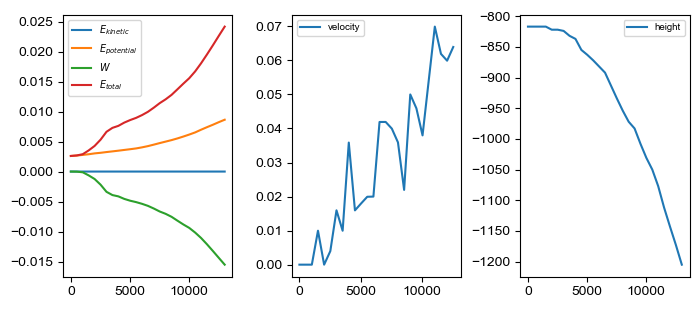
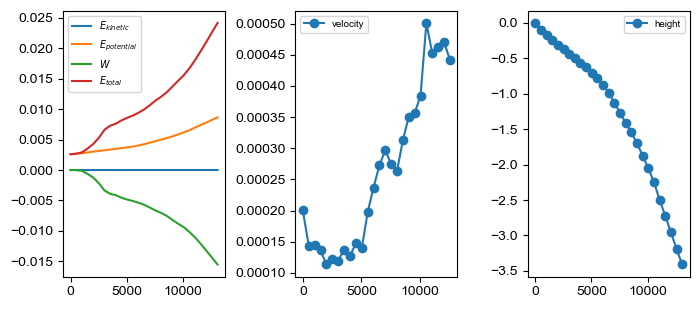
fix: trajectory fig

diff --git a/examples/tube_pulling/trajectory.py b/examples/tube_pulling/trajectory.py
@@ -107,7 +107,7 @@ if __name__ == "__main__":
         pressureEnergy[frame] = system.energy.pressureEnergy
         adsorptionEnergy[frame] = system.energy.adsorptionEnergy
         
-        height[frame] = np.max(np.shape(system.getVertexPositionMatrix()[:,2]))
+        height[frame] = np.max(system.getVertexPositionMatrix()[:,2])
     totalEnergy = potentialEnergy + kineticEnergy - externalWork
 
     """ plotting """
@@ -127,12 +127,10 @@ if __name__ == "__main__":
     # axs[1].plot(time, pressureEnergy, label='$E_p$')
     # axs[1].plot(time, adsorptionEnergy, label='$E_a$')
     # axs[1].plot(time, height, label="$h$")
-    print("time", time[:-1])
-    print("np.diff(time)", np.diff(time))
-    axs[1].plot(time[:-1], np.diff(height)/np.diff(time), label="velocity")
+    axs[1].plot(time[:-1], np.diff(height)/np.diff(time), label="velocity", marker = 'o')
     axs[1].legend()
 
-    axs[2].plot(time, -height, label="height")
+    axs[2].plot(time, -height, label="height", marker = 'o')
     axs[2].legend()
     
     plt.tight_layout()
